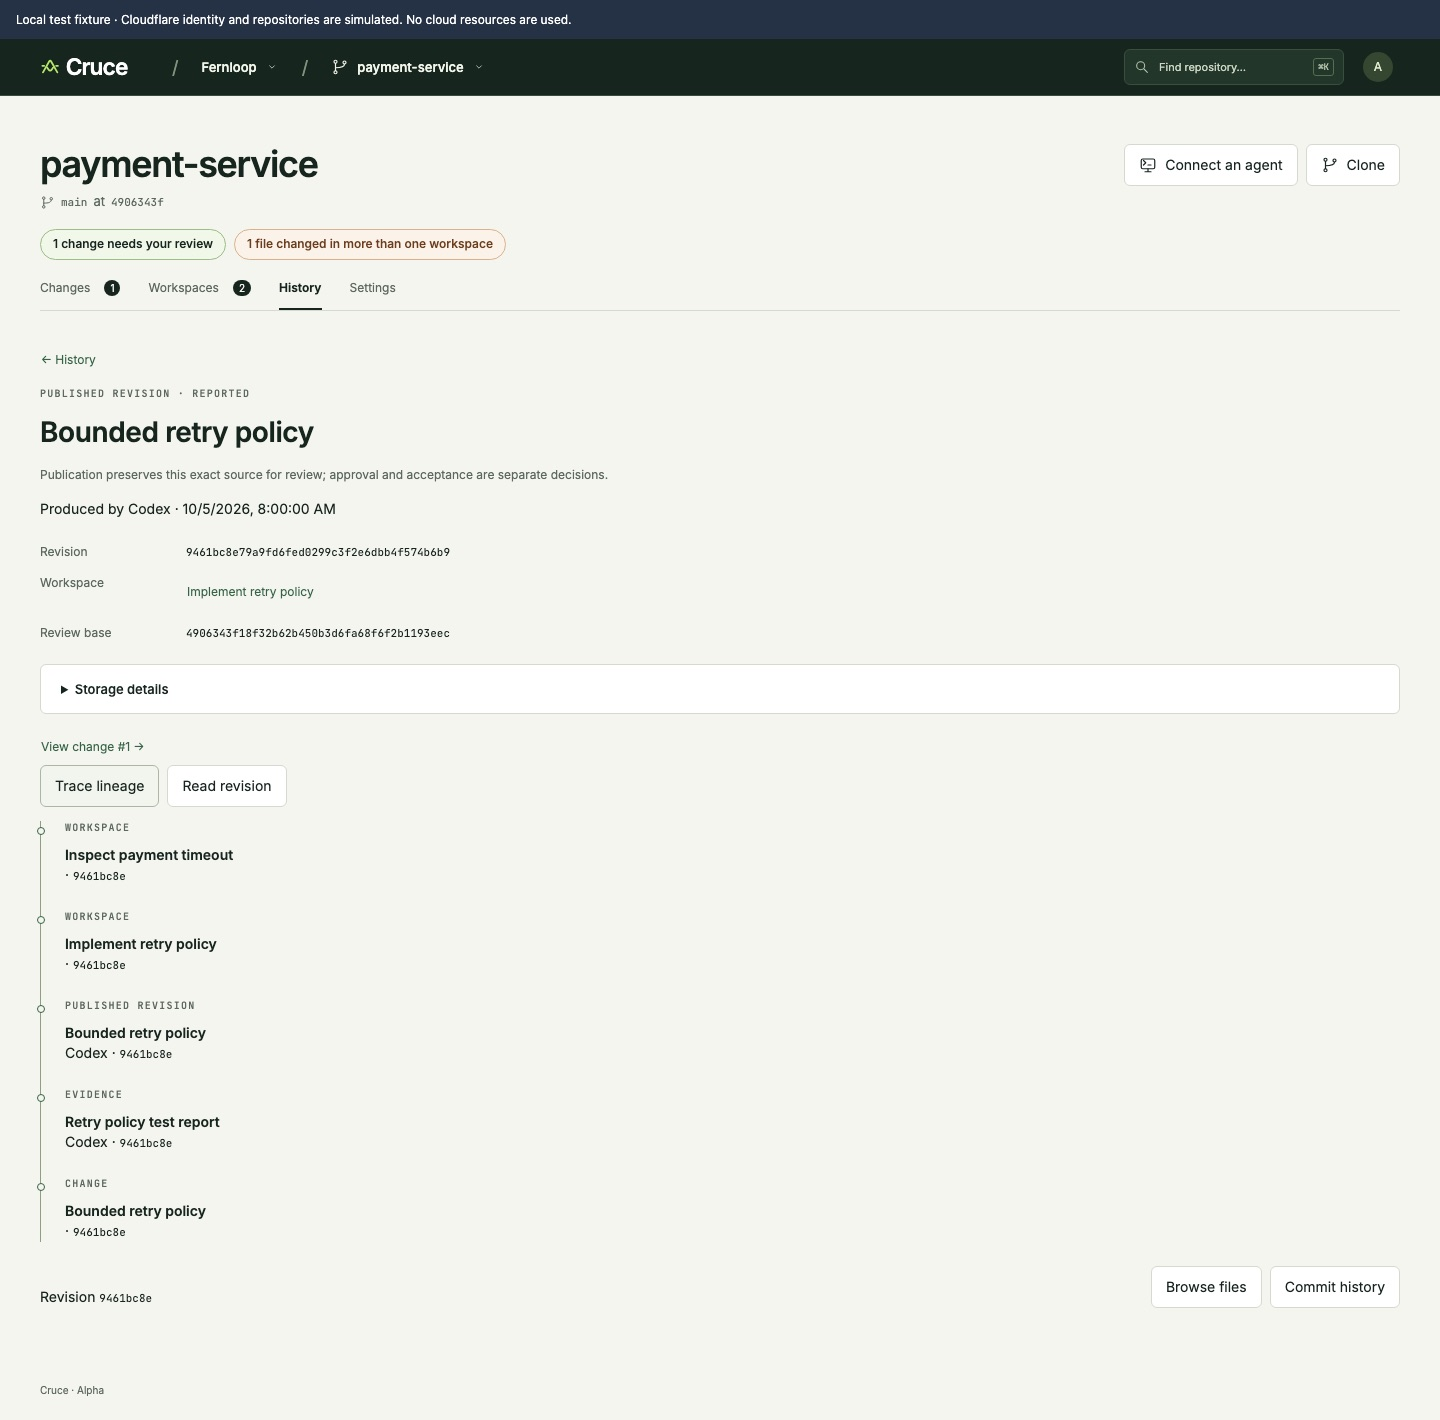
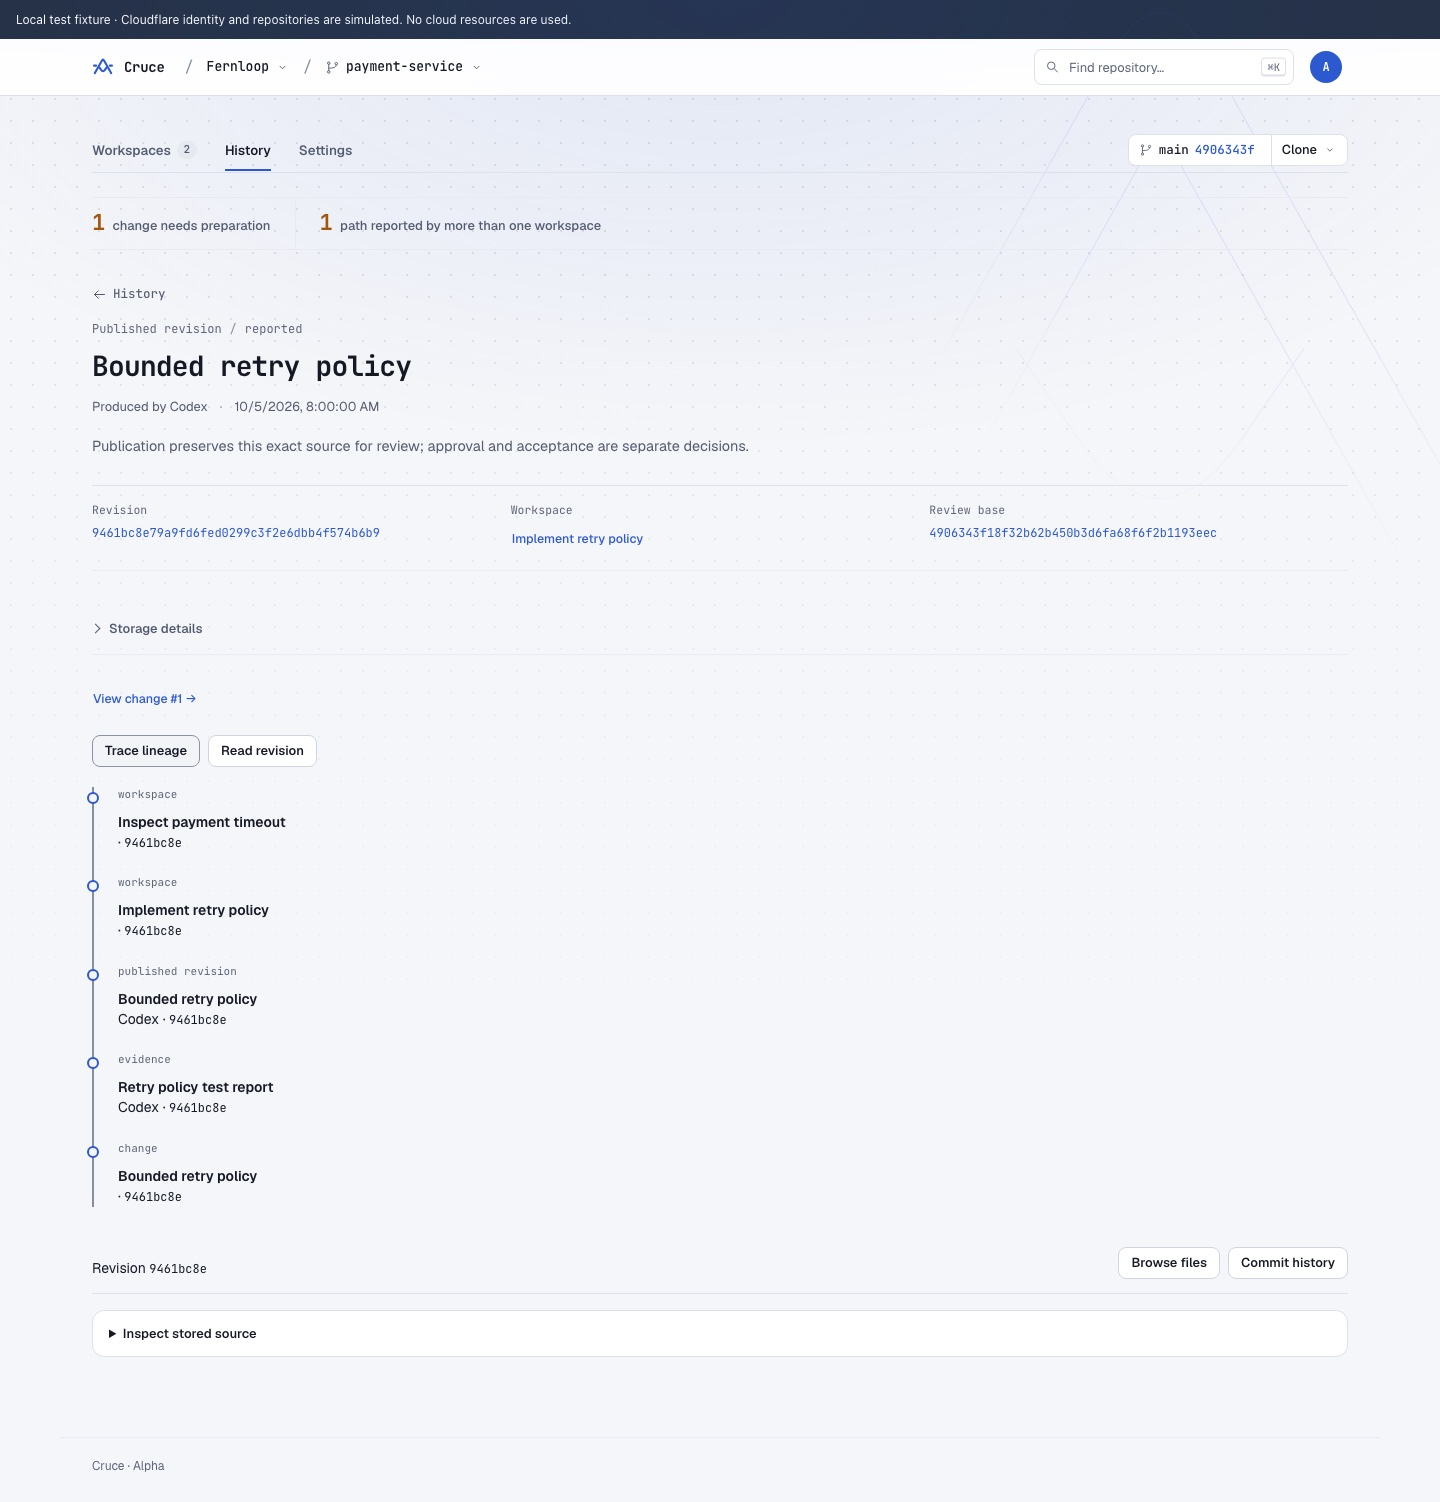
docs: recapture the local demo in the current console
The Home, review, workspace, history and account images still showed the
earlier green design. They are now the browser suite's fixed-clock
captures at 1440px in light mode, converted to JPEG.

The walkthrough text now matches them: Home's Heads-up and a personal
namespace with no repositories, the repository bar with Clone, the
"needs a Git update" attention wording, and the account card's
Appearance and Local setup entries. The refresh instructions name the
captures that exist today: the repository screen is captured as
repository-1440 rather than changes-1440, and Local setup as setup-1440
rather than the retired connect-agent.

Checks: the screen-family browser journey passes and writes
repository-1440.

diff --git a/docs/local-demo.md b/docs/local-demo.md
@@ -19,13 +19,13 @@ Open the loopback URL the server prints. Set `PORT` to choose a fixed port. Rest
 
 ## 1. See what needs you
 
-**Home** lists your repositories across namespaces, most urgent first. The sample **payment-service** in the shared **Fernloop** namespace shows **1 for you** and **1 to prepare**: its one change lacks required tests evidence, and you own it. **Needs you** names that change with its owner (you), exact revision, review base and primary blocker. Below are your namespaces: your personal **Alex Morgan** namespace has no Cloudflare account connected, and Home says so. Type in **Find repository** in the header, or press Cmd/Ctrl K, to jump anywhere.
+**Home** lists your repositories across namespaces, most urgent first. The sample **payment-service** in the shared **Fernloop** namespace shows **1 for you** and **1 to prepare**: its one change lacks required tests evidence, and you own it. **Needs you** names that change with its owner (you), exact revision, review base and primary blocker. **Heads-up** lists the shared path, which needs no decision. Beside them are your namespaces: your personal **Alex Morgan** namespace has no repositories yet. Type in **Find repository** in the header, or press Cmd/Ctrl K, to jump anywhere.
 
 ![Home listing payment-service with one change to review, and the two namespaces](images/local-demo/home.jpg)
 
 ## 2. Open the repository
 
-Click **payment-service**. The header shows canonical `main` and its exact revision. Below it, the attention bar says in plain words what needs someone: **1 change needs preparation** and **1 path reported by more than one workspace**. Each item opens its filtered list. The **Workspaces** tab lists each workspace once with its open changes under it; **Bounded retry policy #1** hangs off **Implement retry policy**, marked **Needs preparation**, with its exact revision on its review base and "Required tests evidence missing · 1 more blocker". The lane map follows the list.
+Click **payment-service**. The header breadcrumb names the repository, and the bar below it holds the tabs and canonical `main` at its exact revision, with **Clone**. Below that, the attention bar says in plain words what needs someone: **1 change needs preparation** and **1 path reported by more than one workspace**. Each item opens its filtered list. The **Workspaces** tab lists each workspace once with its open changes under it; **Bounded retry policy #1** hangs off **Implement retry policy**, marked **Needs preparation**, with its exact revision on its review base and "Required tests evidence missing · 1 more blocker". The lane map follows the list.
 
 ![Repository Workspaces tab: the attention bar, two workspaces with Bounded retry policy #1 nested under Implement retry policy, and the lane map below](images/local-demo/repository.jpg)
 
@@ -39,7 +39,7 @@ Open **Bounded retry policy #1**. The review is a checklist for this exact revis
 
 When every item is checked, the change shows **Ready to promote** and **Promote to main** explains exactly what it does: move canonical `main` from `4906343f` to `9461bc8e` with a non-forced Git update. Raising a concern, recording a failure or closing the change asks for a reason. The files changed and the evidence (including Codex's stored test report) are below the checklist.
 
-Promote it. The change becomes **Promoted**, the header shows the new canonical revision, and the attention bar now reports **1 workspace needs reconciliation**: the other concurrent workspace started from the old baseline and has canonical changes to merge with Git before it publishes.
+Promote it. The change becomes **Promoted**, the header shows the new canonical revision, and the attention bar now reports **1 workspace needs a Git update**: the other concurrent workspace started from the old baseline and has canonical changes to merge with Git before it publishes.
 
 ![Review checklist with Promote to main, the diff and evidence](images/local-demo/review.jpg)
 
@@ -63,7 +63,7 @@ The **History** tab shows canonical promotions as a timeline, published revision
 
 ## 7. Account and access
 
-Click the avatar for a compact card with your name, email and **Sign out**; the current page stays put. Sign-in identity and namespace or repository permissions are separate. **Members** and **Teams** are in shared-namespace navigation; repository access is in the repository's **Settings**.
+Click the avatar for a compact card with your name and email, the **Appearance** control, **Local setup** and **Sign out**; the current page stays put. Sign-in identity and namespace or repository permissions are separate. **Members** and **Teams** are in shared-namespace navigation; repository access is in the repository's **Settings**.
 
 ![Account card with sign-out](images/local-demo/account.jpg)
 
@@ -71,4 +71,4 @@ Cruce's coordination boundary ends at reviewed reconciliation into canonical Git
 
 ## Refresh these screenshots
 
-Keep this walkthrough and its images together when visible console behaviour changes. `pnpm test:browser` writes fresh captures to the ignored `dist/ui-checks/`. Convert the matching captures (`home-1440`, `changes-1440`, `review`, `workspace-1440`, `revision-1440`, `connect-agent`, `account`) into the JPEG files under `docs/images/local-demo/`, for example with `sips -s format jpeg`. Use only sample identities, never capture credentials or a live account, and check every image and relative link.
+Keep this walkthrough and its images together when visible console behaviour changes. `pnpm test:browser` writes fresh captures to the ignored `dist/ui-checks/`. Convert the matching captures (`home-1440`, `repository-1440`, `review`, `workspace-1440`, `revision-1440`, `setup-1440`, `account`) into the JPEG files under `docs/images/local-demo/` (`home`, `repository`, `review`, `workspace`, `history`, `connect`, `account`), for example with `sips -s format jpeg`. Use only sample identities, never capture credentials or a live account, and check every image and relative link.
